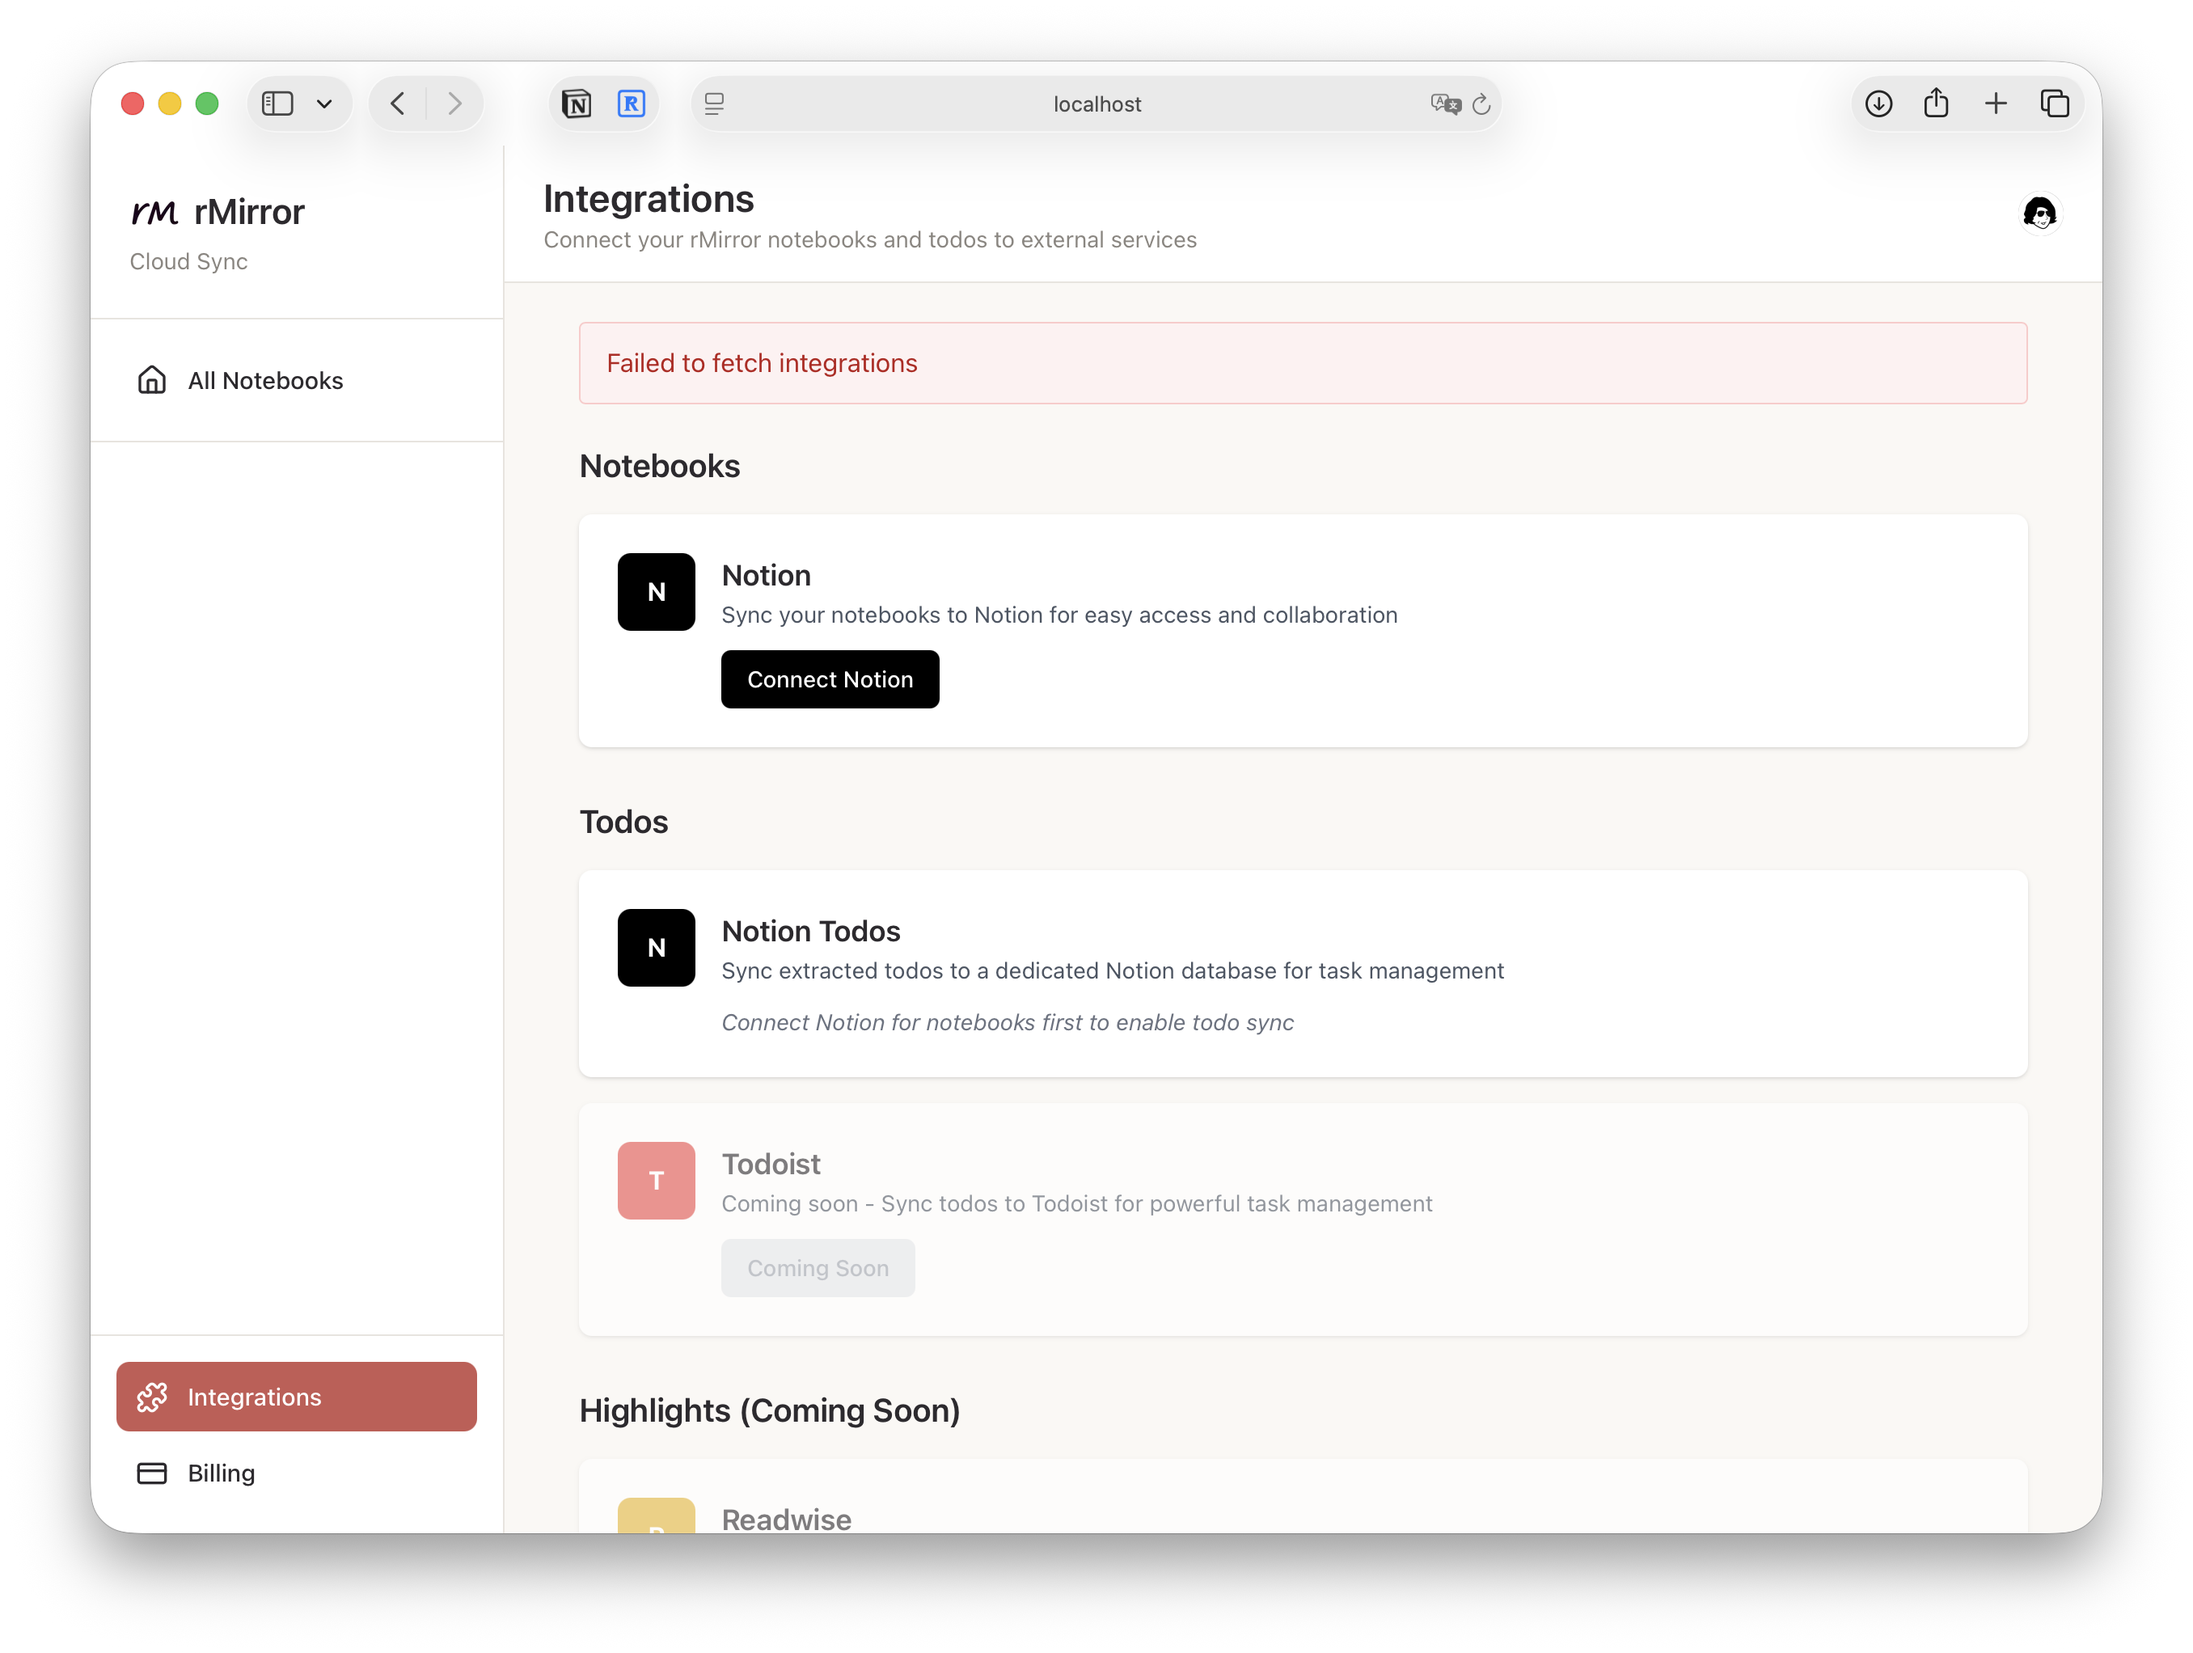
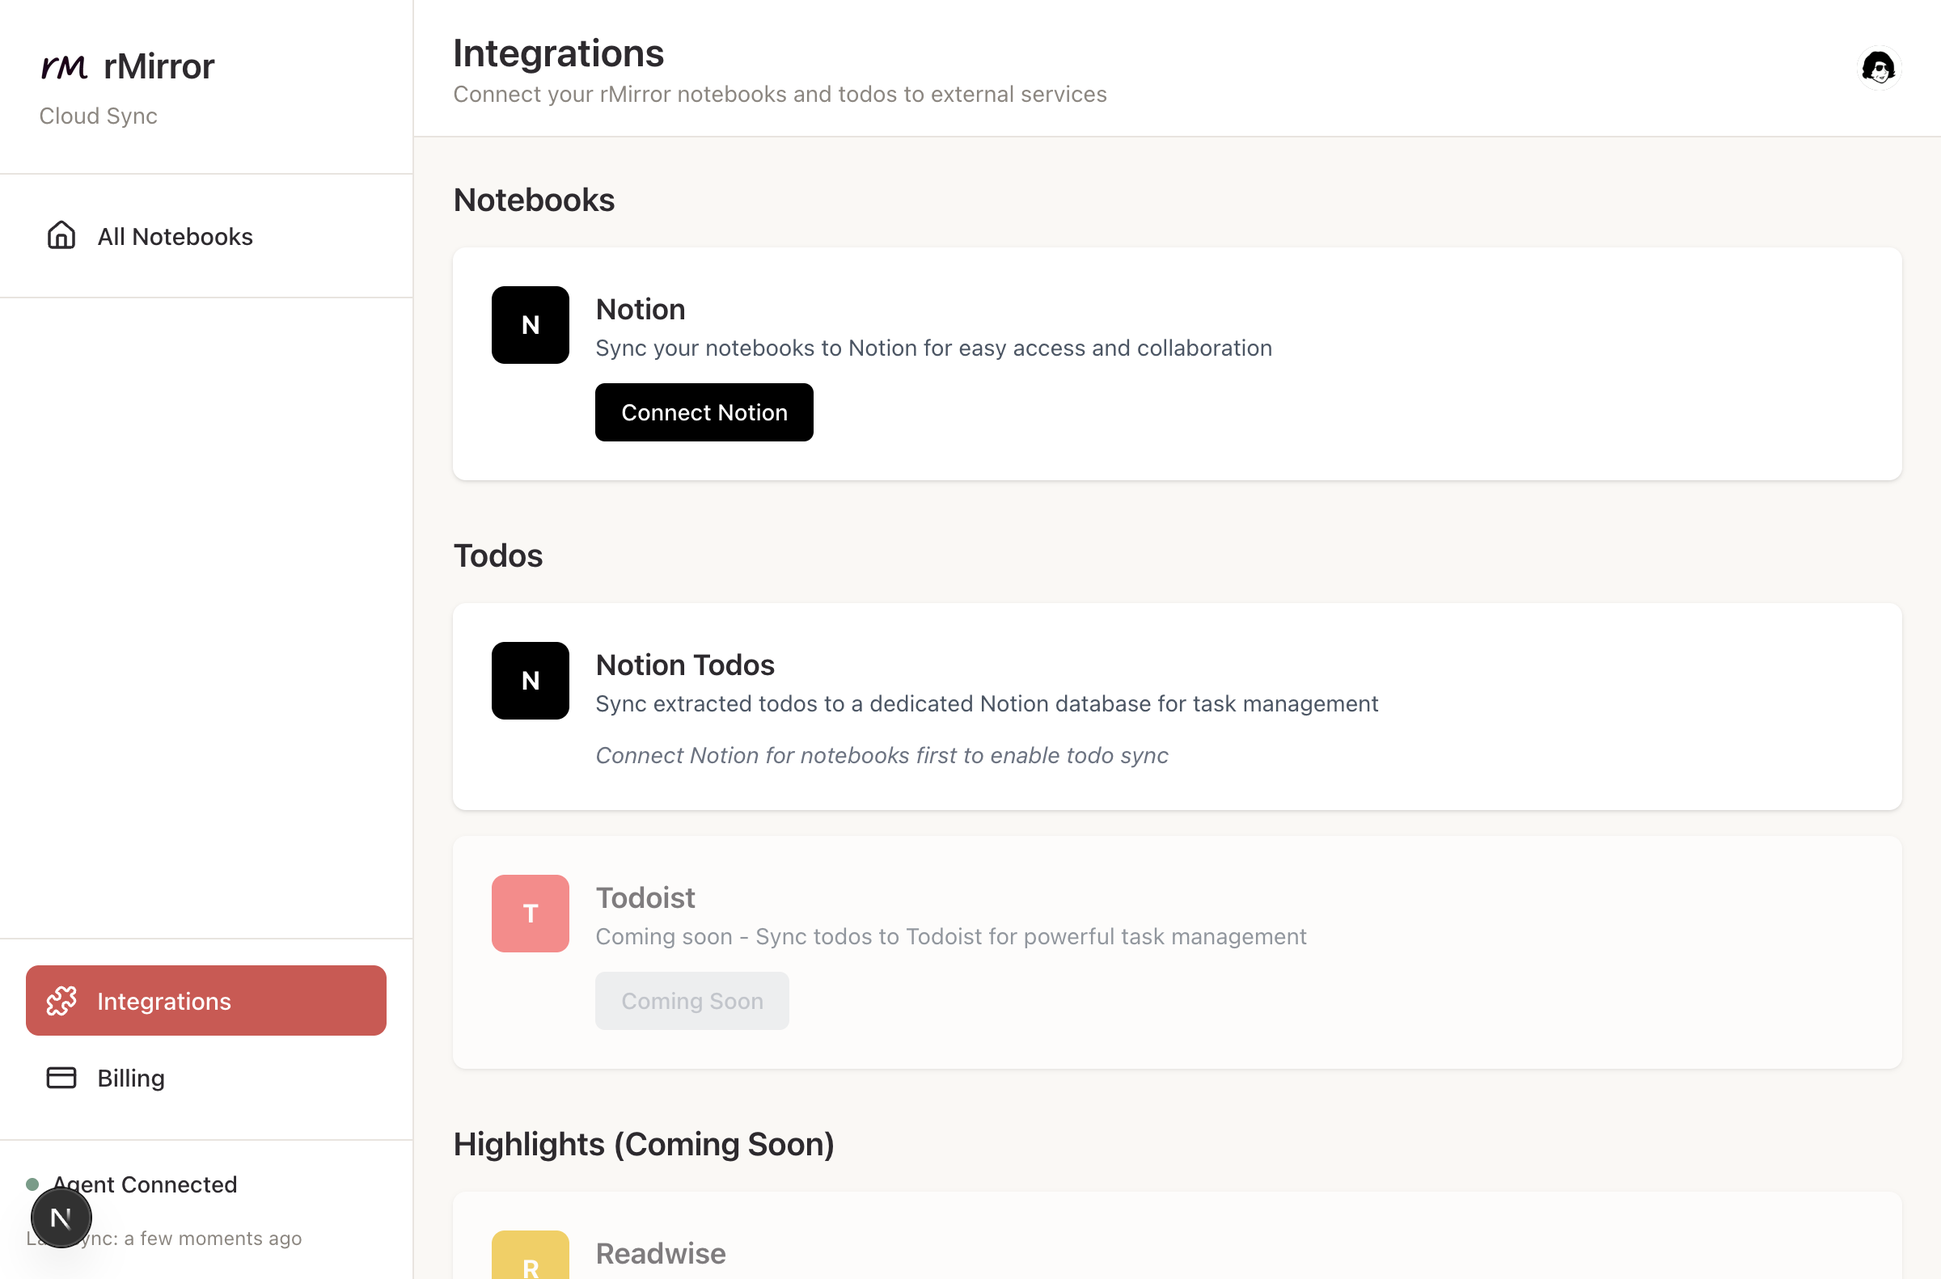
feat(dashboard): add macOS Tahoe window chrome to landing page screenshots
- Add MacWindowFrame component with Tahoe-style traffic lights
- Wrap agent and integrations screenshots with window chrome
- Update agent screenshot with authenticated state (scrambled email)
- Update integrations screenshot (clean, no error message)
- Fix mobile white space issue by moving padding to desktop-only section

Also improve OCR prompt formatting for curved arrows (↳) to output
on new lines with proper indentation for better readability.

diff --git a/dashboard/app/page.tsx b/dashboard/app/page.tsx
@@ -5,6 +5,7 @@ import Link from 'next/link';
 import Image from 'next/image';
 import { useState, useEffect, useRef } from 'react';
 import { Check, ArrowRight, Github, Zap, Search as SearchIcon, Cloud, Puzzle } from 'lucide-react';
+import { MacWindowFrame } from '@/components/MacWindowFrame';
 
 export default function LandingPage() {
   const { isSignedIn } = useAuth();
@@ -60,13 +61,16 @@ export default function LandingPage() {
       <section
         ref={heroRef}
         className="relative overflow-visible py-20 lg:py-28 transition-all duration-1000 ease-out"
-        style={{
-          paddingBottom: isScrolled ? '900px' : '5rem'
-        }}
       >
         <div className="max-w-7xl mx-auto px-6">
           {/* Desktop layout */}
-          <div className="hidden lg:block relative" style={{ minHeight: '400px' }}>
+          <div
+            className="hidden lg:block relative transition-all duration-1000 ease-out"
+            style={{
+              minHeight: '400px',
+              paddingBottom: isScrolled ? '850px' : '0'
+            }}
+          >
             {/* Title & Tagline */}
             <div
               className="transition-all duration-1000 ease-in-out"
@@ -426,13 +430,15 @@ export default function LandingPage() {
               The rMirror agent syncs your notebooks automatically - no manual exports needed
             </p>
           </div>
-          <Image
-            src="/agent-screenshot.png"
-            alt="rMirror Agent Running"
-            width={1920}
-            height={1080}
-            className="w-full h-auto"
-          />
+          <MacWindowFrame>
+            <Image
+              src="/agent-screenshot.png"
+              alt="rMirror Agent Running"
+              width={1920}
+              height={1080}
+              className="w-full h-auto"
+            />
+          </MacWindowFrame>
         </div>
       </section>
 
@@ -549,13 +555,15 @@ export default function LandingPage() {
               Sync your notes to Notion, Readwise, and more
             </p>
           </div>
-          <Image
-            src="/integrations-screenshot.png"
-            alt="Integrations Dashboard"
-            width={1920}
-            height={1080}
-            className="w-full h-auto"
-          />
+          <MacWindowFrame>
+            <Image
+              src="/integrations-screenshot.png"
+              alt="Integrations Dashboard"
+              width={1920}
+              height={1080}
+              className="w-full h-auto"
+            />
+          </MacWindowFrame>
         </div>
       </section>
 

diff --git a/dashboard/components/MacWindowFrame.tsx b/dashboard/components/MacWindowFrame.tsx
@@ -1,0 +1,82 @@
+'use client';
+
+import { ReactNode } from 'react';
+
+interface MacWindowFrameProps {
+  children: ReactNode;
+  title?: string;
+  className?: string;
+  titleBarColor?: string;
+}
+
+export function MacWindowFrame({ children, title, className = '', titleBarColor = '#ffffff' }: MacWindowFrameProps) {
+  return (
+    <div className={`mac-window-frame ${className}`}>
+      {/* Tahoe-style title bar - blends with content */}
+      <div className="mac-title-bar" style={{ background: titleBarColor }}>
+        <div className="mac-traffic-lights">
+          <span className="mac-button mac-close" />
+          <span className="mac-button mac-minimize" />
+          <span className="mac-button mac-maximize" />
+        </div>
+        {title && <span className="mac-title">{title}</span>}
+      </div>
+      {/* Content */}
+      <div className="mac-content">
+        {children}
+      </div>
+      <style jsx>{`
+        .mac-window-frame {
+          border-radius: 12px;
+          overflow: hidden;
+          box-shadow: 0 20px 40px -8px rgba(0, 0, 0, 0.2),
+                      0 0 0 0.5px rgba(0, 0, 0, 0.12);
+          background: #fff;
+        }
+        .mac-title-bar {
+          padding: 12px 14px;
+          display: flex;
+          align-items: center;
+          min-height: 42px;
+        }
+        .mac-traffic-lights {
+          display: flex;
+          gap: 8px;
+        }
+        .mac-button {
+          width: 12px;
+          height: 12px;
+          border-radius: 50%;
+          display: inline-block;
+          box-shadow: inset 0 0 0 0.5px rgba(0, 0, 0, 0.12);
+        }
+        .mac-close {
+          background: linear-gradient(180deg, #ff6058 0%, #ff5048 100%);
+        }
+        .mac-minimize {
+          background: linear-gradient(180deg, #ffbe2f 0%, #ffb420 100%);
+        }
+        .mac-maximize {
+          background: linear-gradient(180deg, #2aca44 0%, #24b93c 100%);
+        }
+        .mac-title {
+          flex: 1;
+          text-align: center;
+          font-size: 13px;
+          color: rgba(0, 0, 0, 0.85);
+          font-weight: 500;
+          margin-right: 52px; /* Balance the traffic lights */
+          letter-spacing: -0.01em;
+        }
+        .mac-content {
+          line-height: 0;
+        }
+        .mac-content :global(img) {
+          display: block;
+          width: 100%;
+          height: auto;
+        }
+      `}</style>
+    </div>
+  );
+}

diff --git a/backend/app/core/ocr_service.py b/backend/app/core/ocr_service.py
@@ -72,7 +72,11 @@ class OCRService:
                 "- Format the output as clean Markdown with proper structure\n"
                 "- Use ## for main headings, ### for subheadings\n"
                 "- For straight arrows, use → ← ↑ ↓ symbols\n"
-                "- For curved/hooked arrows (↳), use ↳ symbol - these indicate indented sub-points, NOT tasks\n"
+                "- For curved/hooked arrows (↳), use ↳ symbol on a NEW LINE with indentation:\n"
+                "  - These indicate indented sub-points that continue from the line above\n"
+                "  - Format as: [main text]\\n  ↳ [indented continuation]\n"
+                "  - Each arrow should start its own line, indented with 2 spaces\n"
+                "  - These are NOT tasks or checkboxes\n"
                 "- For bullet points, use - (dash) for bullets, NOT asterisks\n"
                 "- For checkboxes (square boxes □), use - [ ] for empty and - [x] for checked\n"
                 "- IMPORTANT: Distinguish between curved arrows (↳) and checkboxes (□) - they are NOT the same\n"
@@ -164,7 +168,11 @@ class OCRService:
                 "- Format the output as clean Markdown with proper structure\n"
                 "- Use ## for main headings, ### for subheadings\n"
                 "- For straight arrows, use → ← ↑ ↓ symbols\n"
-                "- For curved/hooked arrows (↳), use ↳ symbol - these indicate indented sub-points, NOT tasks\n"
+                "- For curved/hooked arrows (↳), use ↳ symbol on a NEW LINE with indentation:\n"
+                "  - These indicate indented sub-points that continue from the line above\n"
+                "  - Format as: [main text]\\n  ↳ [indented continuation]\n"
+                "  - Each arrow should start its own line, indented with 2 spaces\n"
+                "  - These are NOT tasks or checkboxes\n"
                 "- For bullet points, use - (dash) for bullets, NOT asterisks\n"
                 "- For checkboxes (square boxes □), use - [ ] for empty and - [x] for checked\n"
                 "- IMPORTANT: Distinguish between curved arrows (↳) and checkboxes (□) - they are NOT the same\n"
